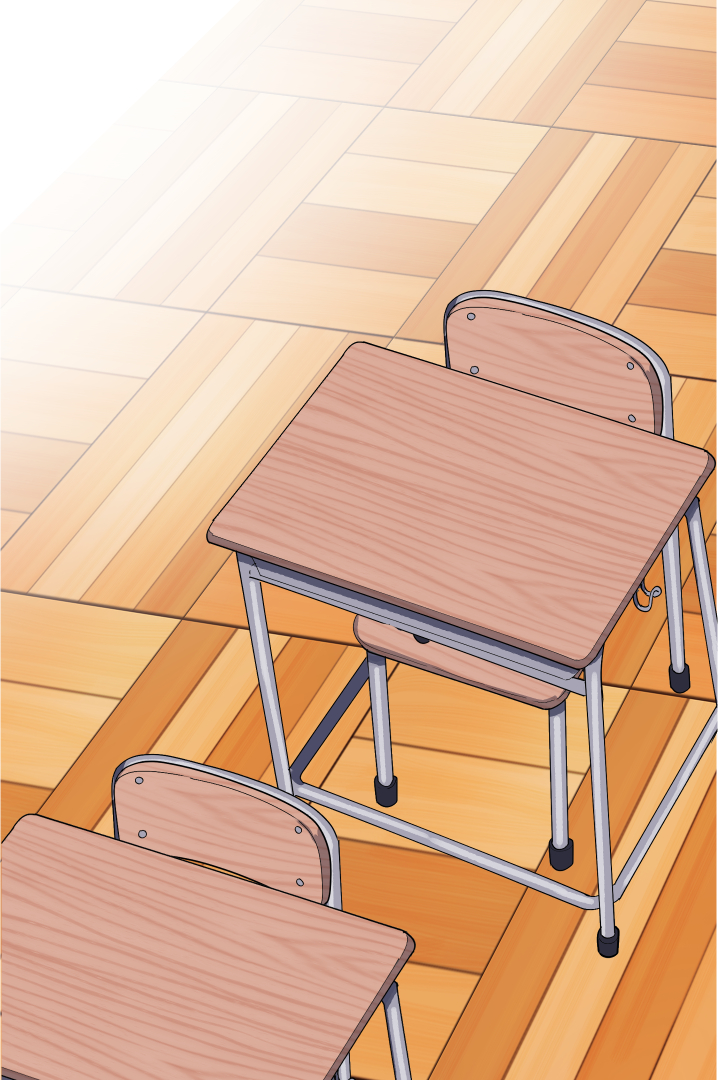
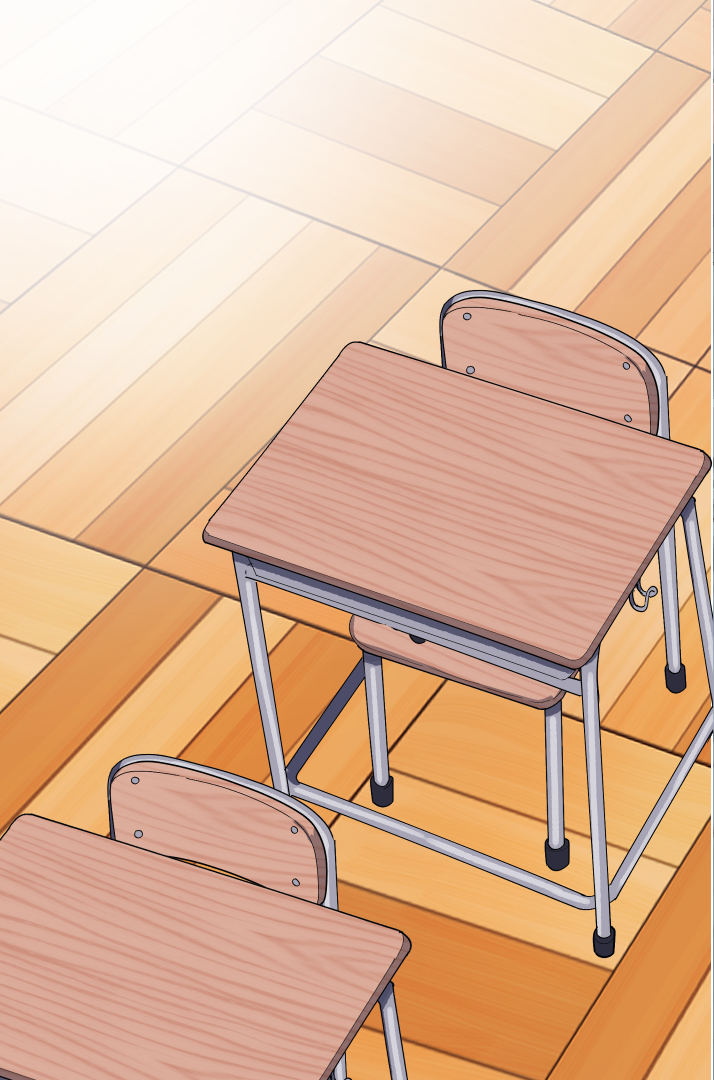
ハレ阻止カバー画像を差し替え・トリミング調整

diff --git a/blog.html b/blog.html
@@ -89,7 +89,7 @@
         <a class="blog-mag-entry" href="blog-sakamachi.html"><div class="blog-mag-thumb"><span class="blog-mag-num">03</span><img src="img/blog/sakuga01_header.png" alt=""></div><span class="blog-mag-tag">BLOG</span><h3>作画裏話</h3><p>キャラデザ・サムネ制作・服装デザインなど、作画担当ならではの裏話。</p><div class="blog-mag-meta">記事 2本<span class="blog-mag-cta">読みに行く →</span></div></a>
         <a class="blog-mag-entry" href="blog-shinigami.html"><div class="blog-mag-thumb"><span class="blog-mag-num">04</span><img src="img/blog/shinigami01_header.jpg" alt=""></div><span class="blog-mag-tag">SERIES</span><h3>死神少女【原稿Ver】</h3><p>寿命と引き換えに願いを叶える死神と、フリーター・ジュンを描く連作短編。</p><div class="blog-mag-meta">記事 9本 ／ HP限定<span class="blog-mag-cta">読みに行く →</span></div></a>
         <a class="blog-mag-entry" href="blog-botsu.html"><div class="blog-mag-thumb"><span class="blog-mag-num">05</span><img src="img/botsu-thumb.jpg" alt=""></div><span class="blog-mag-tag">BOTSU</span><h3>ボツの館</h3><p>過去作で没になった構想・お蔵入りシナリオたちを供養する場所。</p><div class="blog-mag-meta">記事 3本<span class="blog-mag-cta">読みに行く →</span></div></a>
-        <a class="blog-mag-entry" href="blog-harem.html"><div class="blog-mag-thumb"><img src="img/harem-cover.jpg" alt="ハレ阻止！" style="object-position:center 40%;"><span class="blog-mag-num">06</span></div><span class="blog-mag-tag">LOVECOMEDY</span><h3>ハレ阻止！</h3><p>モテすぎる幼馴染・日和の恋を応援するため、軟派な優大が才女・時雨と組んでハーレムを全力で阻止する青春ラブコメ。</p><div class="blog-mag-meta">第3話まで公開中<span class="blog-mag-cta">読みに行く →</span></div></a>
+        <a class="blog-mag-entry" href="blog-harem.html"><div class="blog-mag-thumb"><img src="img/harem-cover.jpg" alt="ハレ阻止！" style="object-position:64% 40%;"><span class="blog-mag-num">06</span></div><span class="blog-mag-tag">LOVECOMEDY</span><h3>ハレ阻止！</h3><p>モテすぎる幼馴染・日和の恋を応援するため、軟派な優大が才女・時雨と組んでハーレムを全力で阻止する青春ラブコメ。</p><div class="blog-mag-meta">第3話まで公開中<span class="blog-mag-cta">読みに行く →</span></div></a>
         <a class="blog-mag-entry" href="blog-monochrome.html"><div class="blog-mag-thumb"><span class="blog-mag-num">07</span><img src="img/blog/monochrome/gokon-madonna_01.png" alt=""></div><span class="blog-mag-tag">MANGA</span><h3>白黒漫画</h3><p>モノクロで描かれた2ページ漫画作品集。</p><div class="blog-mag-meta">5作品 公開中<span class="blog-mag-cta">読みに行く →</span></div></a>
       </div>
     </div>
